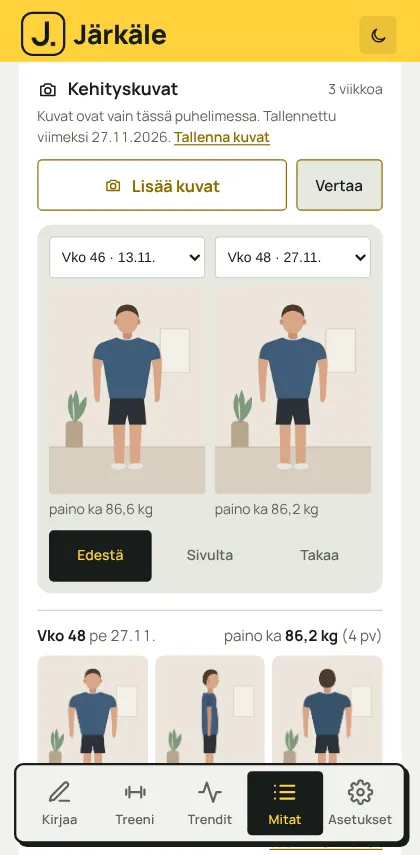
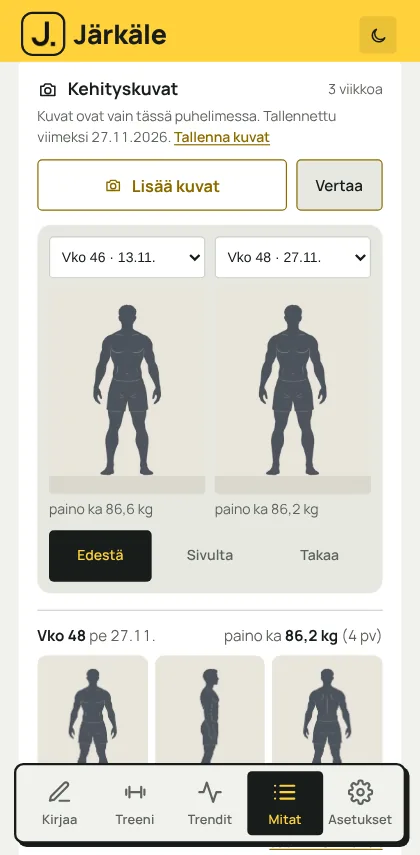
Esittely: kehityskuvien esimerkkihahmo uusittu, merkitty esimerkkikuviksi
Claude-Session: https://claude.ai/code/session_019tkzrVwThuW46uhkkHQesb

diff --git a/esittely.html b/esittely.html
@@ -304,7 +304,7 @@ footer b{font:800 15px/1 Manrope,system-ui,sans-serif;color:var(--acc);letter-sp
   </div>
   <div class="shots big">
     <figure class="shot"><img src="kuvat/keho-mitat.webp" alt="Mitat-sivun kokonaiskuva: vyötärö, rasvaprosentti ja FFMI sekä muutos edelliseen mittaukseen" loading="lazy" width="420" height="855"><figcaption>Mitat<span>muutokset edelliseen mittaukseen ja seurannan alkuun</span></figcaption></figure>
-    <figure class="shot"><img src="kuvat/keho-kuvat.webp" alt="Kehityskuvat: kahden viikon vertailu rinnakkain ja viikon kuvat painon keskiarvon kanssa" loading="lazy" width="420" height="855"><figcaption>Kehityskuvat<span>vertaa kahta viikkoa rinnakkain</span></figcaption></figure>
+    <figure class="shot"><img src="kuvat/keho-kuvat.webp" alt="Kehityskuvat esimerkkihahmolla: kahden viikon vertailu rinnakkain ja viikon kuvat painon keskiarvon kanssa" loading="lazy" width="420" height="855"><figcaption>Kehityskuvat<span>vertaa kahta viikkoa rinnakkain · esimerkkikuvat</span></figcaption></figure>
     <figure class="shot"><img src="kuvat/keho-trendit.webp" alt="Trendit: muutokset edelliseen jaksoon ja salitreenien ennätykset" loading="lazy" width="420" height="855"><figcaption>Trendit<span>tarkastele muutoksia valitulla ajanjaksolla</span></figcaption></figure>
   </div>
   <details class="older guide"><summary>Kehon seurannan käyttöohjeet</summary>
